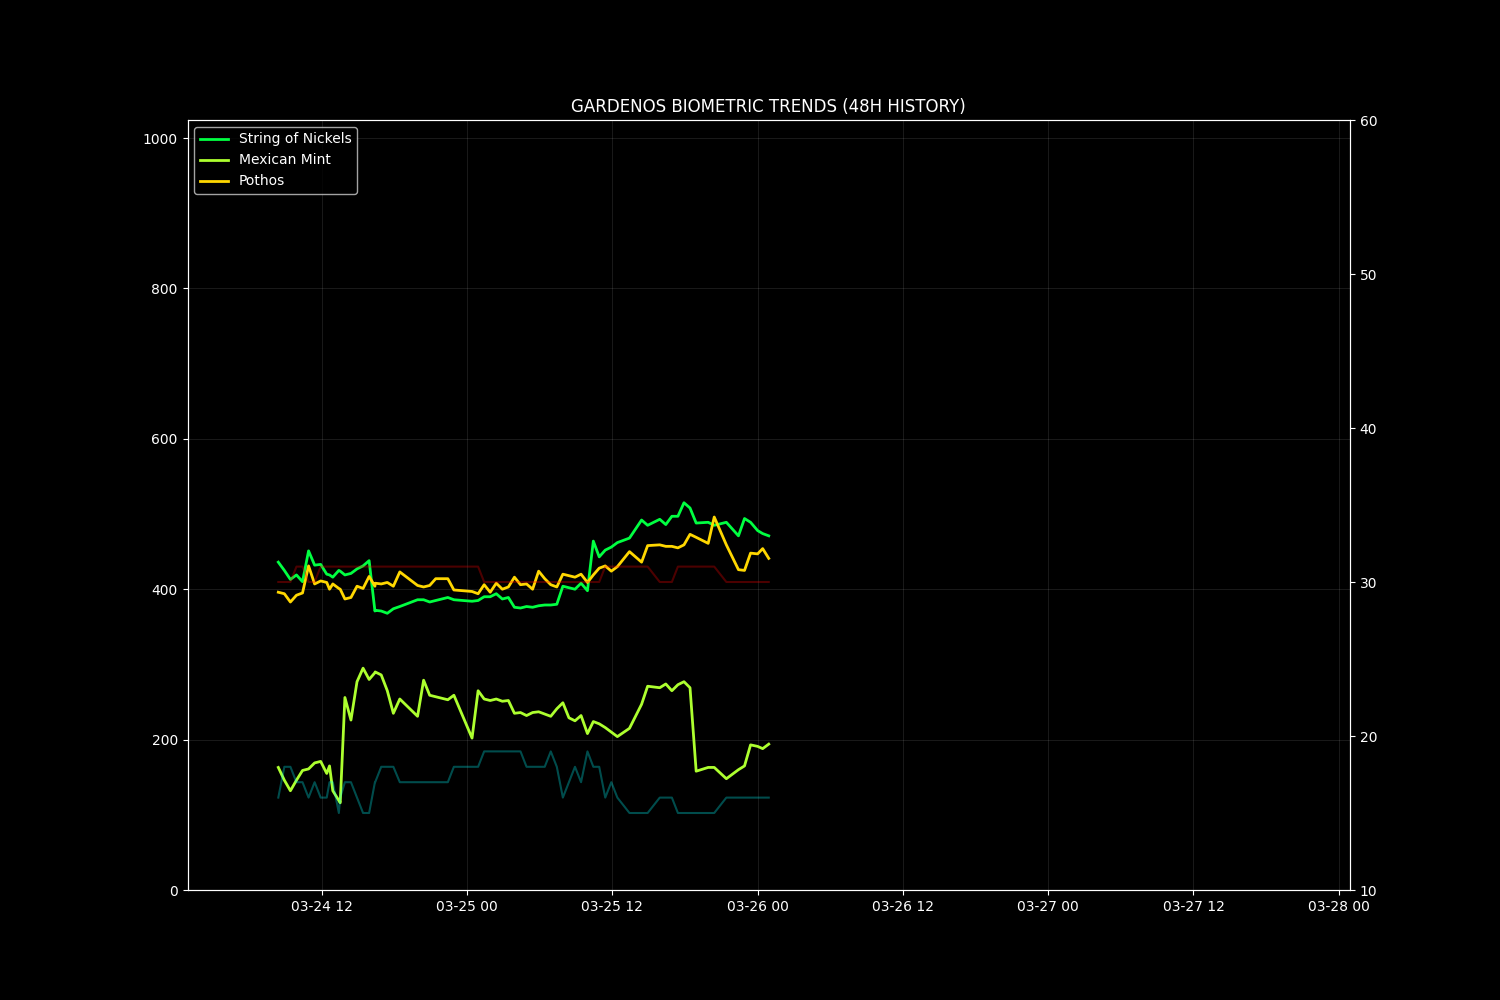
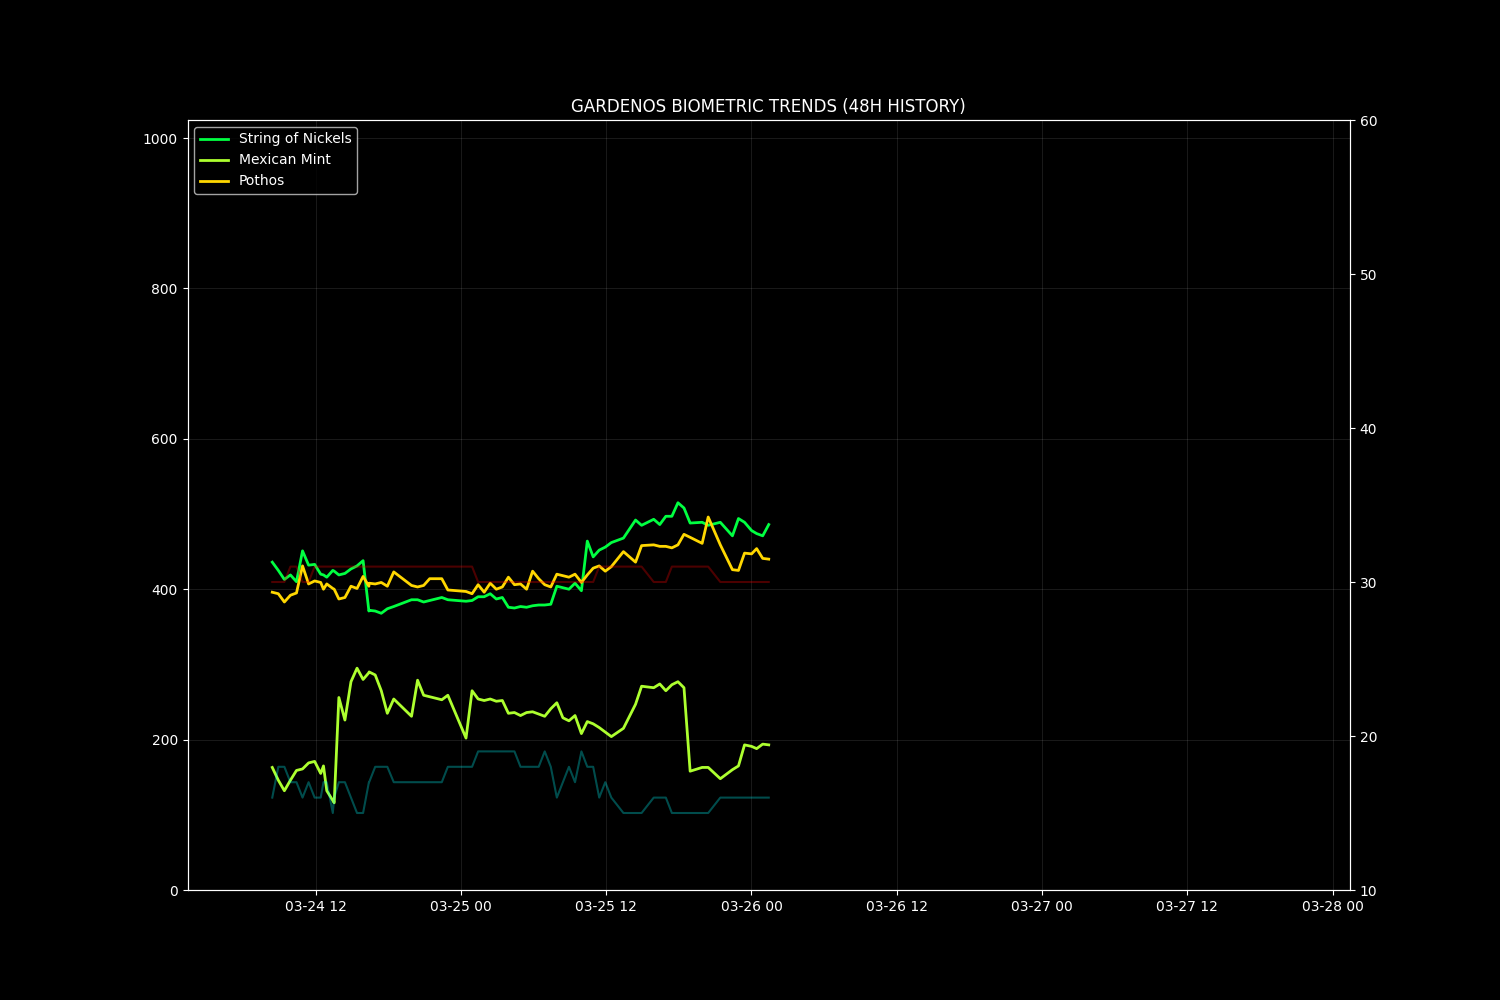
Warden Cycle: 2026-03-26 01:25:29

diff --git a/docs/data/observer_context.md b/docs/data/observer_context.md
@@ -1,21 +1,21 @@
 # 📝 Garden Observer Context
-**Generated:** 2026-03-25 23:59:59
+**Generated:** 2026-03-26 00:58:01
 
 ## 1. 🌡 Recent Telemetry (Last 12 Readings)
 ```csv
 timestamp,temp,hum,light,p1,p2,p3
-2026-03-25 22:25:29,30.0,16.0,855,471.0,160.0,426.0
-2026-03-25 22:55:28,30.0,16.0,906,494.0,165.0,425.0
-2026-03-25 23:25:28,30.0,16.0,906,489.0,193.0,448.0
+2026-03-26 00:00:26,30.0,16.0,907,478.0,191.0,447.0
+2026-03-26 00:25:28,30.0,16.0,908,474.0,188.0,454.0
+2026-03-26 00:55:34,30.0,16.0,910,471.0,194.0,441.0
 
 ```
 
 ## 2. 📊 Computed Metrics (Last 12 Calculations)
 ```csv
 timestamp,vpd,p1_pct,p1_slope,p2_pct,p2_slope,p3_pct,p3_slope,p4_pct,p4_slope,p5_pct,p5_slope,p6_pct,p6_slope,p1_is_dry,p2_is_dry,p3_is_dry
-2026-03-25 22:25:29,3.564,78.5,,100.0,,70.7,,,,,,,,False,False,False
-2026-03-25 22:55:28,3.564,71.5,,100.0,,70.9,,,,,,,,False,False,False
-2026-03-25 23:25:28,3.564,73.0,,100.0,,64.4,,,,,,,,False,False,False
+2026-03-26 00:00:26,3.564,76.4,,100.0,,64.7,,,,,,,,False,False,False
+2026-03-26 00:25:28,3.564,77.6,,100.0,,62.7,,,,,,,,False,False,False
+2026-03-26 00:55:34,3.564,78.5,,100.0,,66.4,,,,,,,,False,False,False
 
 ```
 
